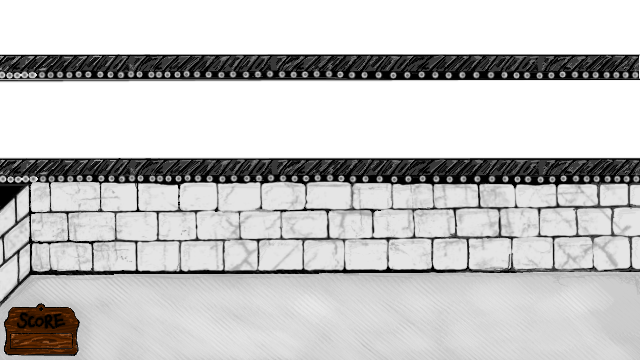
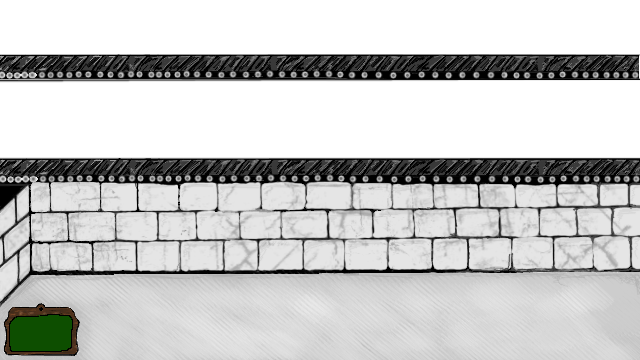
Fixed title screen. Fixed readme.

Changed region(s): [[0.0, 0.8556, 0.125, 1.0]]

diff --git a/js/main.js b/js/main.js
@@ -12,7 +12,7 @@ let app = new PIXI.Application({
 });
 
 PIXI.loader
-  .add(["res/music.png", "res/title.png", "res/potato.png", "res/onion.png", "res/carot.png", "res/brocoli.png","res/pot.png", "res/cut.png", "res/levelclear.png", "res/bg.png"])
+  .add(["res/music.png", "res/title.png", "res/potato.png", "res/onion.png", "res/carot.png", "res/brocoli.png","res/pot.png", "res/cut.png", "res/levelclear.png", "res/bg.png", "res/startbutton.png"])
   .add('bgmusic', 'res/bg.ogg')
   .add("cutSound", "res/cut.ogg")
   .load(setup);
@@ -100,9 +100,9 @@ function startGame() {
   gameState = "game";
   app.stage.addChild(new PIXI.Sprite(PIXI.loader.resources["res/bg.png"].texture))
   nextLevel();
-  scoreText = new PIXI.Text(score, {fontFamily : 'OpenSans', fontSize: 14, fill : 0xffffff, align : 'center'});
-  scoreText.x = 37;
-  scoreText.y = 333;
+  scoreText = new PIXI.Text(score, {fontFamily : 'OpenSans', fontSize: 18, fill : 0xffffff, align : 'center'});
+  scoreText.x = 30;
+  scoreText.y = 325;
   app.stage.addChild(scoreText);
   app.ticker.add(dt => gameLoop(dt));
   if (music) {
@@ -117,8 +117,8 @@ function createMusicToggle() {
   let musicToggle = new PIXI.Sprite(tex[0]);
   musicToggle.interactive = true;
   musicToggle.buttonMode = true;
-  musicToggle.x = 570;
-  musicToggle.y = 290;
+  musicToggle.x = 120;
+  musicToggle.y = 225;
   musicToggle.on("pointerdown", function() {
     music = !music;
     if (music) {
@@ -133,14 +133,19 @@ function createMusicToggle() {
 function setup() {
   let musicToggle = createMusicToggle();
   let title = new PIXI.Sprite(PIXI.loader.resources["res/title.png"].texture);
-  title.interactive = true;
-  title.buttonMode = true;
-  title.on("pointerdown", function() {
+  let startButton = new PIXI.Sprite(PIXI.loader.resources["res/startbutton.png"].texture);
+  startButton.interactive = true;
+  startButton.buttonMode = true;
+  startButton.x = 110;
+  startButton.y = 160;
+  startButton.on("pointerdown", function() {
     app.stage.removeChild(title);
     app.stage.removeChild(musicToggle);
+    app.stage.removeChild(startButton);
     startGame();
   });
   app.stage.addChild(title);
+  app.stage.addChild(startButton);
   app.stage.addChild(musicToggle);
   app.renderer.interactive = true;
   app.renderer.backgroundColor = 0xFFFFFF;
@@ -242,7 +247,7 @@ function updatePots(dt) {
       if (score < 100) {
         text = " " + text;
       }
-      scoreText.text = score;
+      scoreText.text = text;
       potContainer.removeChild(pots[p].status)
       ++finishedPots;
       pots[p].reset();

diff --git a/README.md b/README.md
@@ -3,6 +3,7 @@
 My entry for the Ludum Dare 41 jam made in less than 72 hours using html/css/javascript.
 
 Music: [Master of the Feast by Kevin MacLeod](http://freemusicarchive.org/music/Kevin_MacLeod/Best_of_2014_1461/Master_of_the_Feast)
+
 Cut sound: [Freesound](https://freesound.org/people/Abyssmal/sounds/35213/)
 
 Todo: links
